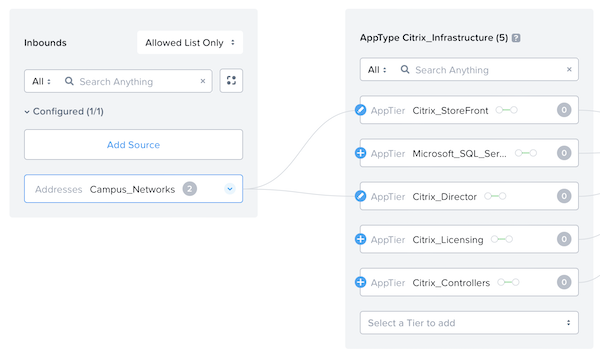
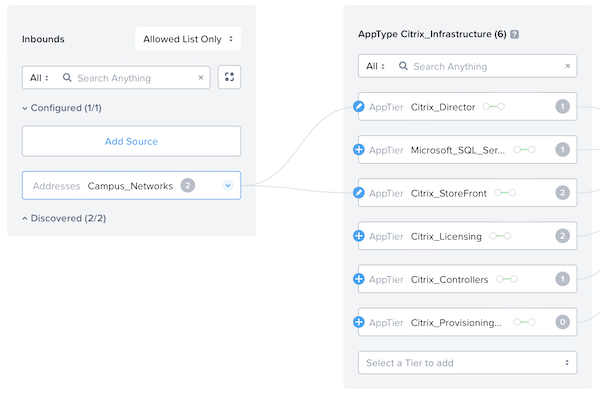
Adding PVS Detail

diff --git a/documentation/BP-2125-Securing Citrix Virtual Apps and Desktops with Nutanix Flow/BP-2125/bp-2125-02-introduction.md b/documentation/BP-2125-Securing Citrix Virtual Apps and Desktops with Nutanix Flow/BP-2125/bp-2125-02-introduction.md
@@ -14,6 +14,8 @@ In this document we describe how to use Flow Network Security to design a set of
 - Monitoring
 - Policy enforcement
 - Auditing
+- Quarantine VMs
+- Flow Security Dashboard
   
 Unless otherwise stated, the solution described in this document is valid on all supported AOS releases.
 
@@ -25,3 +27,4 @@ Unless otherwise stated, the solution described in this document is valid on all
 | 1.1 | October 2019 | Updated for AOS 5.11. |
 | 1.2 | March 2021 | Updated Nutanix overview, terminology, and references. |
 | 2.0 | April 2023 | Updated to provide detailed overview for Citrix Virtual Apps and Desktops. |
+| 2.1 | May 2023 | Updated to add Citrix Provisioning Services. |

diff --git a/documentation/BP-2125-Securing Citrix Virtual Apps and Desktops with Nutanix Flow/BP-2125/bp-2125-05-implementing-flow-network-security.md b/documentation/BP-2125-Securing Citrix Virtual Apps and Desktops with Nutanix Flow/BP-2125/bp-2125-05-implementing-flow-network-security.md
@@ -208,6 +208,6 @@ Once you've repeated this process for all the VMs in the deployment, the VMs are
 
 - Navigate back to the security policy and open it. The policy should now apply to the appropriate VMs based on category assignments.
 
-![VM Policy Applied](../images/bp-2125-securing-citrix-virtual-apps-and-desktops-with-nutanix-flow_image39.png "VM Policy Applied")
+![VM Policy Applied](../images/bp-2125-securing-citrix-virtual-apps-and-desktops-with-nutanix-flow_image29.png "VM Policy Applied")
 
 The policies you've created and configured are now operating in monitor mode.

diff --git a/documentation/BP-2125-Securing Citrix Virtual Apps and Desktops with Nutanix Flow/BP-2125/bp-2125-10-flow-security-dashboard.md b/documentation/BP-2125-Securing Citrix Virtual Apps and Desktops with Nutanix Flow/BP-2125/bp-2125-10-flow-security-dashboard.md
@@ -1,0 +1,3 @@
+# Nutanix Flow Security Dashboard
+
+Fill out this to include data about the flow security dashboard
